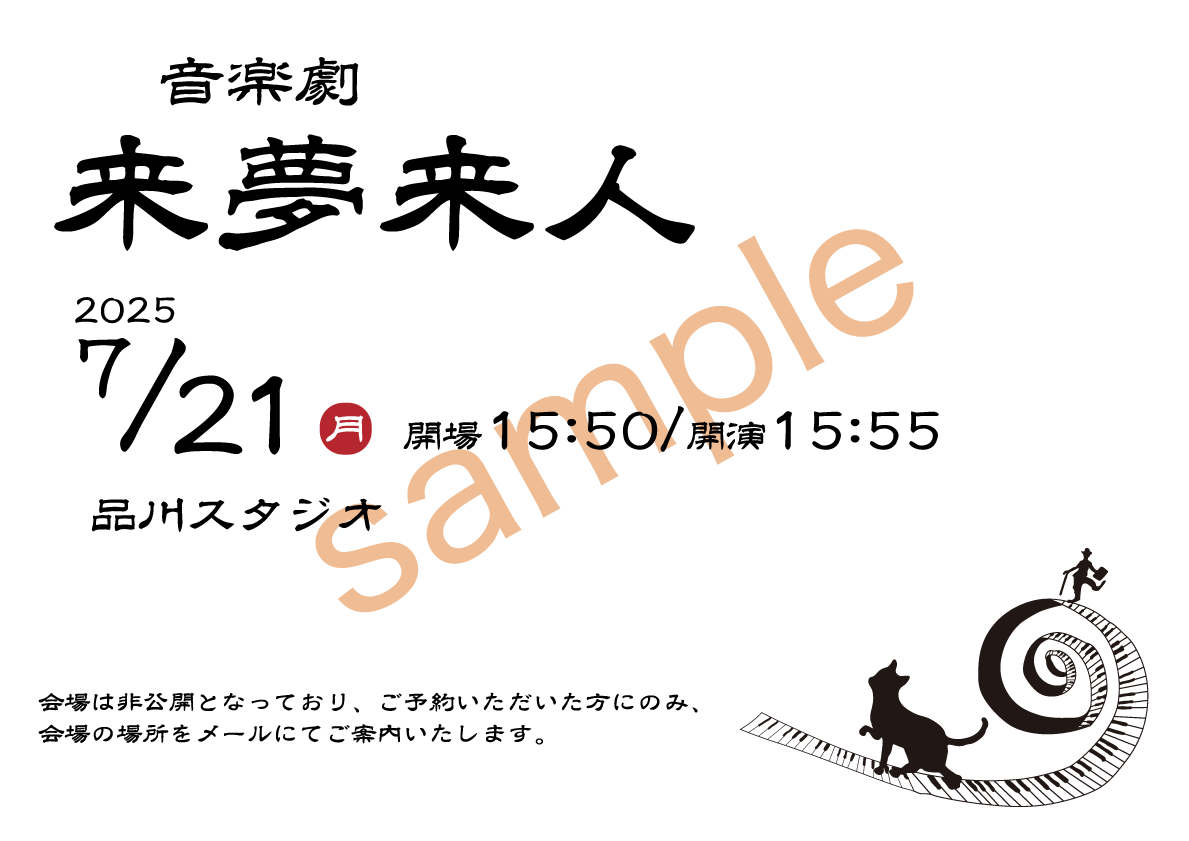
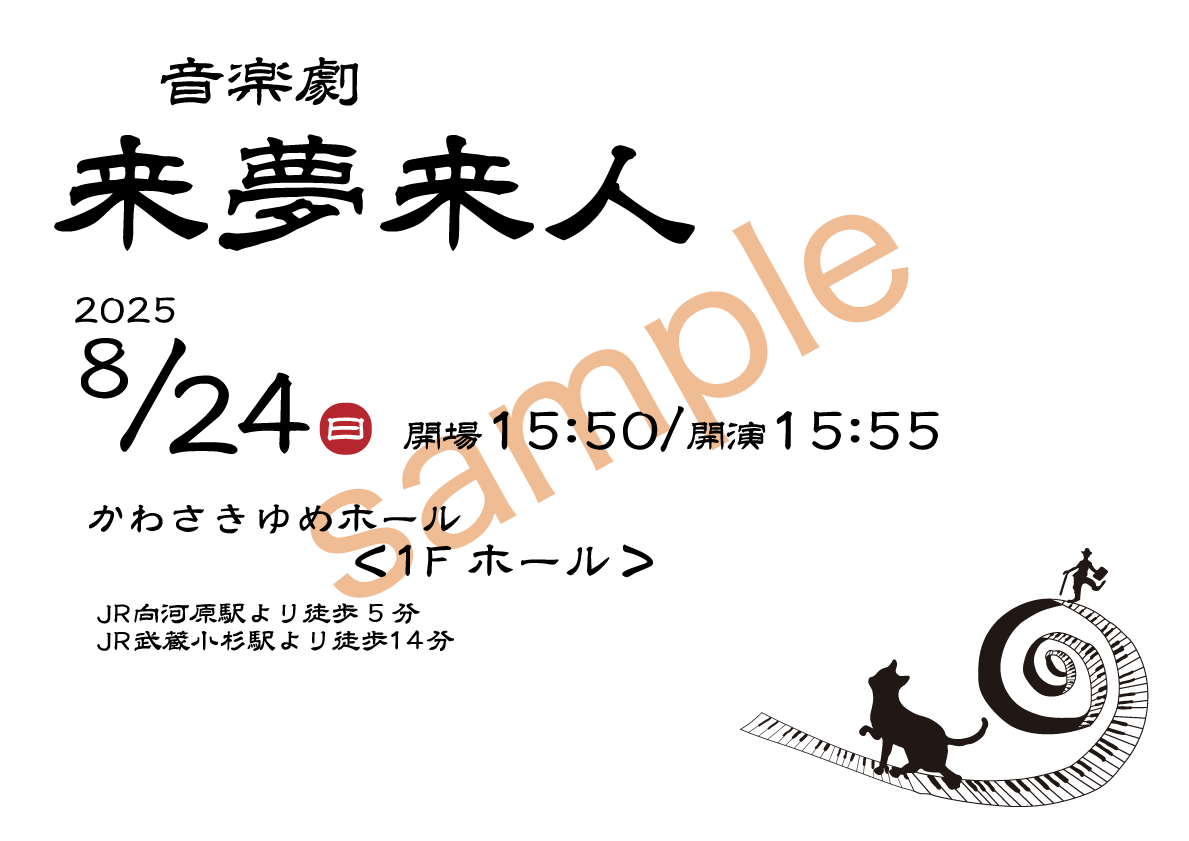
250824来夢来人追加

diff --git a/news_00007.html b/news_00007.html
@@ -2,7 +2,7 @@
 <!DOCTYPE html>
 <html>
     <head>
-        <title>2025年7月21日(月)品川にて音楽劇「来夢来人」に出演します-布川仁美 official website</title>
+        <title>2025年8月24日(日)武蔵小杉にて音楽劇「来夢来人」に出演します-布川仁美 official website</title>
         <link rel="icon" href="images/NH_favicon.svg">
         <link rel="stylesheet" type="text/css" href="CSS/style.css">
         <link rel="preconnect" href="https://fonts.googleapis.com">
@@ -47,11 +47,11 @@
         <main>
             <article id="news-art">
                 <section class="site-map">
-                    <p><a href="index.html">Top</a> > <a href="news.html">News</a> > 2025.06.30</p>
+                    <p><a href="index.html">Top</a> > <a href="news.html">News</a> > 2025.08.10</p>
                 </section>
                 <section class="news_page_title">
-                    <h1 class="news_title">2025年7月21日(月)品川にて<br>音楽劇「来夢来人」に出演します</h1>
-                    <p class="news-date">2025.06.30</p>
+                    <h1 class="news_title">2025年8月24日(日)武蔵小杉にて<br>音楽劇「来夢来人」に出演します</h1>
+                    <p class="news-date">2025.08.10</p>
                 </section>
                 <section class="news-contents-box">
                     <img src="images/news/news_00007.png">
@@ -59,30 +59,36 @@
                         「来夢来人」は、こころに響く美しい音のもとで、夢先案内人チャッポランと繰り広げられる音楽劇です✨
                     </p>
                     <p>
-                        テキストテキストテキストテキストテキストテキストテキストテキストテキストテキストテキストテキストテキストテキストテキストテキストテキストテキストテキストテキストテキストテキストテキストテキストテキストテキスト
+                        <br>今年の夏はロックな来夢来人！？新しい仲間も登場で🎸一緒に盛り上がりましょ💫
+                        <br>客席からの参加も大歓迎です🎶
+                    </p>
                     <p>
-                        ご予約は下記のリンクよりお願いいたします！
-                        <br>みなさまのお越しをこころよりお待ちしております✨
+                        今回もどんな出会いがあるのか！！ぜひ楽しみにお越しください❣
+                    </p>
+                    <p>
+                        そしてそして今回から12月までチケット制になりました♪
+                        <br>下記のフォームからご予約いただいた方には、集めると楽しいスタンプ式電子チケットを送らせていただきますね🎈
+                    </p>
+                    <p>
+                        みなさまのお越しをこころよりお待ちしております✨
                     </p>
                     <div class="news-cm">
                         <div class="news-ov">
-                            <h3 class="news-ov-date">2025年7月21日(月)</h3>
-                            <p>時間：開場1X:XX頃/開演1X:XX</p>
+                            <p>時間：開場15:30頃/開演15:30</p>
                             <p>
-                                会場：品川某所
+                                会場：かわさきゆめホール　1F
+                                <br>　　　〒211-0011 神奈川県川崎市中原区下沼部1880
                             </p>
-                            <p>
-                                本公演は非公開の会場での開催となります。
-                                <br>ご予約いただいた方にのみ、会場の場所をメールにてご案内いたします。
-                            </p>
+                            <p>&#9632; JR向河原駅より徒歩5分</p>
+                            <p>&#9632; JR武蔵小杉駅より徒歩10分</p>
                         </div>
                         <div class="news-map">
-                            <iframe src="https://www.google.com/maps/embed?pb=!1m18!1m12!1m3!1d6485.939578411667!2d139.73618477652224!3d35.62847127260426!2m3!1f0!2f0!3f0!3m2!1i1024!2i768!4f13.1!3m3!1m2!1s0x60188a5a6e148775%3A0x9a45c347f706db70!2z5ZOB5bed6aeF!5e0!3m2!1sja!2sjp!4v1750084417870!5m2!1sja!2sjp" width="600" height="450" style="border:0;" allowfullscreen="" loading="lazy" referrerpolicy="no-referrer-when-downgrade"></iframe>
+                            <iframe src="https://www.google.com/maps/embed?pb=!1m18!1m12!1m3!1d2628.715117099472!2d139.668195667435!3d35.57017658141258!2m3!1f0!2f0!3f0!3m2!1i1024!2i768!4f13.1!3m3!1m2!1s0x60185f8ba9a31487%3A0xa55c9405e80f5937!2z44GL44KP44GV44GN44KG44KB44Ob44O844Or!5e0!3m2!1sja!2sjp!4v1743004689417!5m2!1sja!2sjp" width="600" height="450" style="border:0;" allowfullscreen="" loading="lazy" referrerpolicy="no-referrer-when-downgrade"></iframe>
                         </div>
                     </div>
                     <div class="news-gform">
                         <h2>ご予約はこちらから!!</h2>
-                        <a href="https://docs.google.com/forms/d/e/1FAIpQLSfiCh1boh6X7tAgRHnQTnBr1BYjEl1Nh90UFyAzrCOm8sj4ow/viewform?usp=dialog" target="_blank" rel="noopener noreferrer">ご予約専用フォーム(Googlフォーム)</a>
+                        <a href="https://docs.google.com/forms/d/e/1FAIpQLSeQrqAVibUVttXqE3u1ZtZX5kuIkY-02MpqN4fMQ9jHKtgJ9w/viewform?usp=header" target="_blank" rel="noopener noreferrer">ご予約専用フォーム(Googlフォーム)</a>
                     </div>
                 </section>
                 <section class="page-share">
@@ -104,6 +110,9 @@
                 </section>
 
                 <section class="news-btn-box"> 
+                    <div class="news-btn-left">
+                        <a href="news_00007.html">次のNewsへ</a>
+                    </div>
                     <div class="news-btn-center">
                         <a href="news.html">News一覧へ</a>
                     </div>

diff --git a/index.html b/index.html
@@ -71,13 +71,13 @@
                             <h1>News</h1>
                             <div class="tn-scroll">
                                 <div class="tn-contents">
+                                    <a href="news_00007.html">2025.08.10<br>2025年8月24日(日)武蔵小杉にて音楽劇「来夢来人」に出演します<img class="tn-boximg" src="images/news/news_00007.png"></a>
+                                </div>
+                                <div class="tn-contents">
                                     <a href="news_00006.html">2025.04.06<br>2025年4月29日(火・祝)藤沢・2025年5月5日(月・祝)武蔵小杉にて音楽劇「来夢来人」に出演します<img class="tn-boximg" src="images/news/news_00006.png"></a>
                                 </div>
                                 <div class="tn-contents">
                                     <a href="news_00005.html">2025.02.28<br>2025年3月20日(木・祝)横浜市栄区にて音楽劇「来夢来人」に出演します<img class="tn-boximg" src="images/news/news_00005.png"></a>
-                                </div>
-                                <div class="tn-contents">
-                                    <a href="news_00004.html">2025.01.26<br>2025年2月11日(火・祝)東白楽にて音楽劇「来夢来人」に出演します<img class="tn-boximg" src="images/news/news_00004.png"></a>
                                 </div>
                             </div>
                             <div id="tn-more">
@@ -93,7 +93,7 @@
                             <h1>Works</h1>
                             <div id="tw-scroll">
                                 <div class="tw-contents">
-                                    <a href="works.html">2025.06.15<br>音楽劇「来夢来人」<img class="tw-boximg" src="images/work/work_00050.png"></a>
+                                    <a href="works.html">2025.06.15<br>音楽劇「来夢来人」<img class="tw-boximg" src="images/work/work_00051.png"></a>
                                 </div>
                                 <div class="tw-contents">
                                     <a href="works.html">2025.05.05<br>音楽劇「来夢来人」<img class="tw-boximg" src="images/work/work_00049.png"></a>

diff --git a/works.html b/works.html
@@ -66,6 +66,17 @@
                 <ul class="works-box">
                     <li class="works-container">
                         <div class="works-container-img-box">
+                            <img class="works-container-img" src="images/work/work_00051.png">
+                        </div>
+                        <div class="works-container-date">
+                            <p>2025.07.21</p>
+                        </div>
+                        <div class="works-container-text">
+                            <p>音楽劇 来夢来人</p> 
+                        </div>
+                    </li>
+                    <li class="works-container">
+                        <div class="works-container-img-box">
                             <img class="works-container-img" src="images/work/work_00050.png">
                         </div>
                         <div class="works-container-date">

diff --git a/news.html b/news.html
@@ -70,10 +70,10 @@
                                     <a href="news_00007.html"><img id="latest-news-img" src="images/news/news_00007.png"></a>
                                 </div>
                                 <div id="latest-news-date">
-                                    <p>2025.06.30</p>
+                                    <p>2025.08.10</p>
                                 </div>
                                 <div id="latest-news-ct">
-                                    <a href="news_00007.html">2025年7月21日(月)品川にて音楽劇「来夢来人」に出演します</a>
+                                    <a href="news_00007.html">2025年8月24日(日)武蔵小杉にて音楽劇「来夢来人」に出演します</a>
                                 </div>
                             </li>
                             <li id="latest-news-box">

diff --git a/profile.html b/profile.html
@@ -85,6 +85,7 @@
                 <section class="activity-record">
                     <h1>自主企画</h1>
                     <div class="activity-record-list">
+                        <p>2025.07.21   「音楽劇 来夢来人」 @品川</p>
                         <p>2025.06.15   「音楽劇 来夢来人」 @藤沢</p>
                         <p>2025.05.05   「音楽劇 来夢来人」 @武蔵小杉</p>
                         <p>2025.04.29   「音楽劇 来夢来人」 @藤沢</p>
